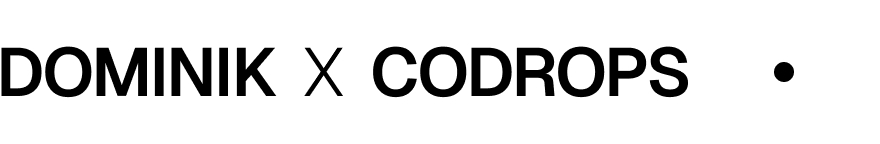
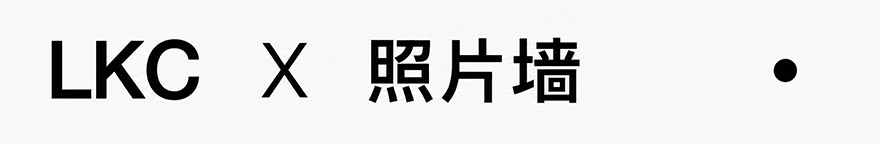
feat: 更换照片墙为真实照片资源
- 删除旧的占位图片 (img1~img13.webp)
- 新增真实照片资源目录 (public/photos/)
- 更新 images.js 数据源指向新照片
- 替换 banner.jpg 为新版本

Changed region(s): [[0.0, 0.25, 0.7977, 0.7222], [0.8591, 0.3889, 0.9205, 0.5833]]

diff --git a/src/data/images.js b/src/data/images.js
@@ -1,17 +1,38 @@
+// 默认主题（default）的图片清单，文件位于 public/photos/default/
 const images = [
-    { url: '/images/img1.webp' },
-    { url: '/images/img2.webp' },
-    { url: '/images/img3.webp' },
-    { url: '/images/img4.webp' },
-    { url: '/images/img5.webp' },
-    { url: '/images/img6.webp' },
-    { url: '/images/img7.webp' },
-    { url: '/images/img8.webp' },
-    { url: '/images/img9.webp' },
-    { url: '/images/img10.webp' },
-    { url: '/images/img11.webp' },
-    { url: '/images/img12.webp' },
-    { url: '/images/img13.webp' },
+    { url: '/photos/default/img1.webp' },
+    { url: '/photos/default/img2.webp' },
+    { url: '/photos/default/img3.webp' },
+    { url: '/photos/default/img4.webp' },
+    { url: '/photos/default/img5.webp' },
+    { url: '/photos/default/img6.webp' },
+    { url: '/photos/default/img7.webp' },
+    { url: '/photos/default/img8.webp' },
+    { url: '/photos/default/img9.webp' },
+    { url: '/photos/default/img10.webp' },
+    { url: '/photos/default/img11.webp' },
+    { url: '/photos/default/img12.webp' },
+    { url: '/photos/default/img13.webp' },
+    { url: '/photos/default/img14.webp' },
+    { url: '/photos/default/img15.webp' },
+    { url: '/photos/default/img16.webp' },
+    { url: '/photos/default/img17.webp' },
+    { url: '/photos/default/img18.webp' },
+    { url: '/photos/default/img19.webp' },
+    { url: '/photos/default/img20.webp' },
+    { url: '/photos/default/img21.webp' },
+    { url: '/photos/default/img22.webp' },
+    { url: '/photos/default/img23.webp' },
+    { url: '/photos/default/img24.webp' },
+    { url: '/photos/default/img25.webp' },
+    { url: '/photos/default/img26.webp' },
+    { url: '/photos/default/img27.webp' },
+    { url: '/photos/default/img28.webp' },
+    { url: '/photos/default/img29.webp' },
+    { url: '/photos/default/img30.webp' },
+    { url: '/photos/default/img31.webp' },
+    { url: '/photos/default/img32.webp' },
+    { url: '/photos/default/img33.webp' },
 ];
 
 export default images;